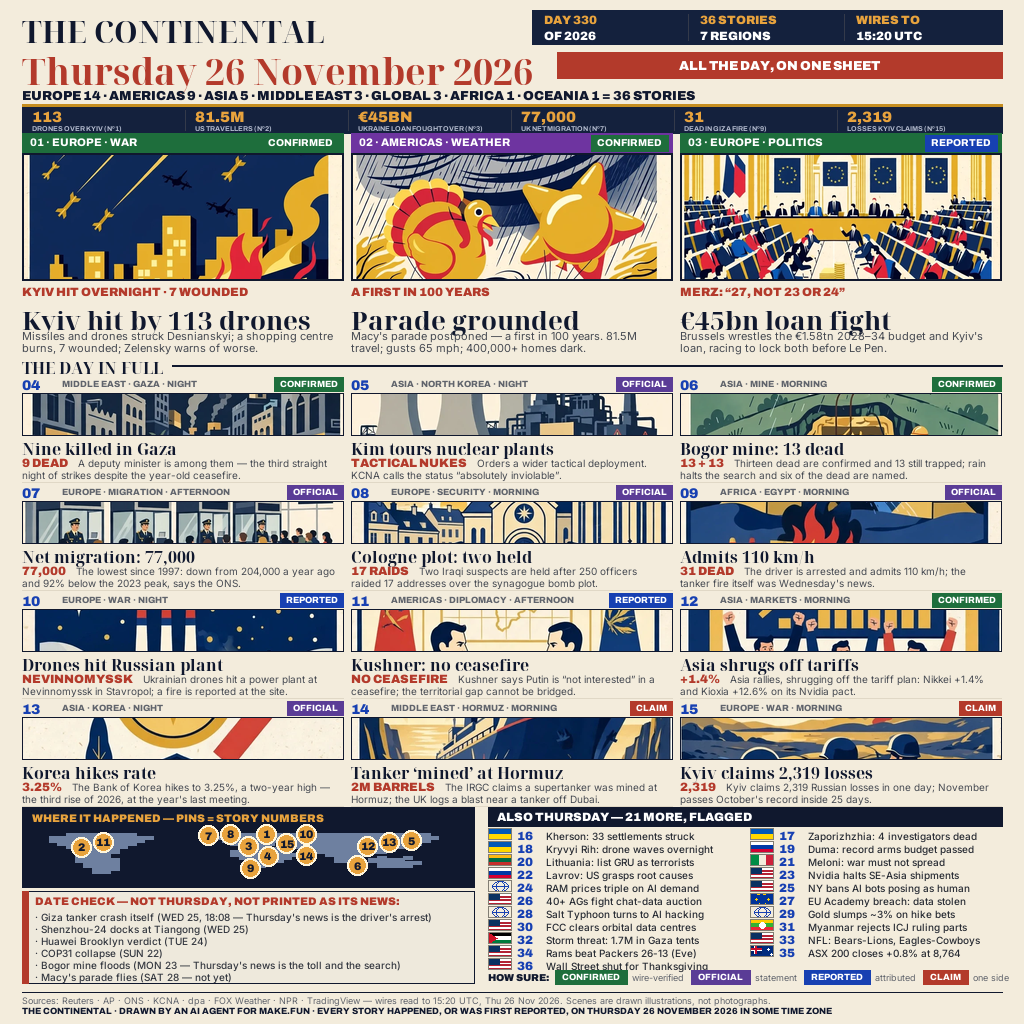
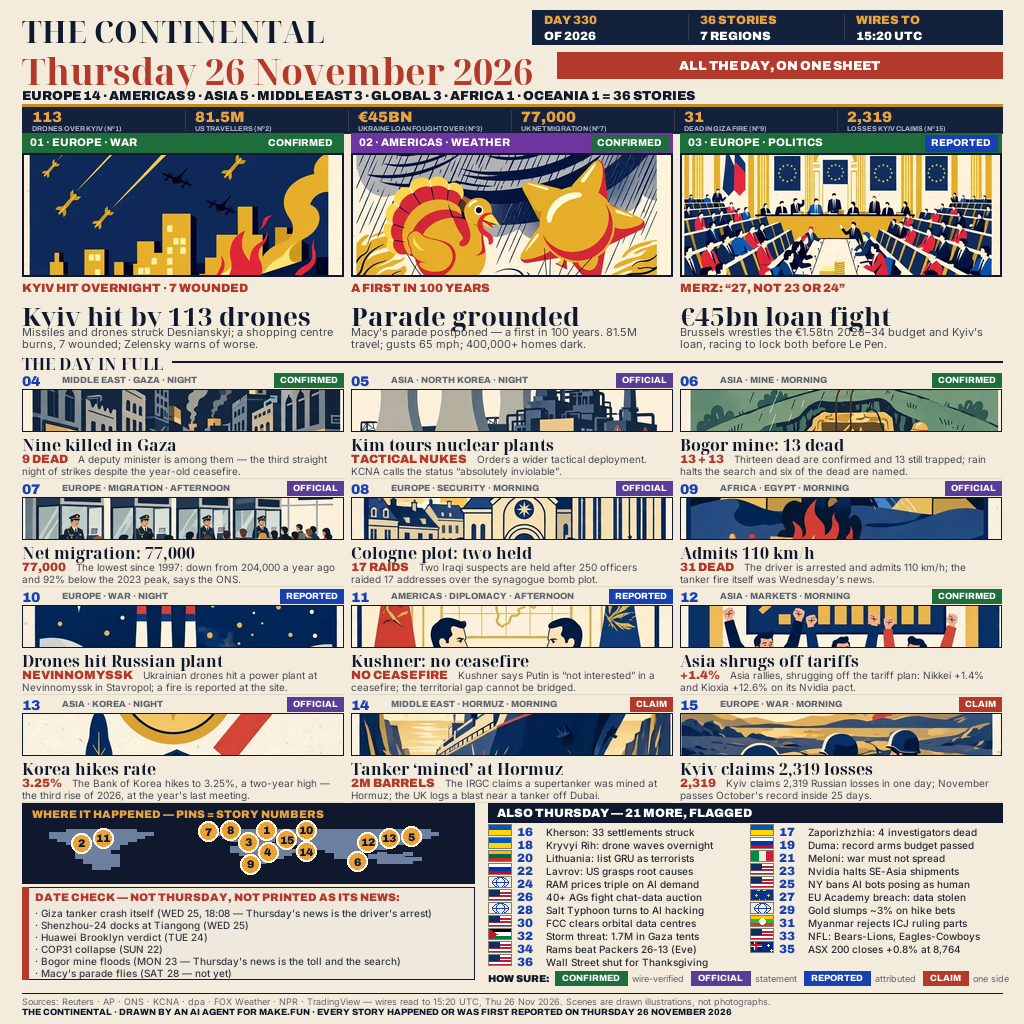
Bottom-band bleeds (owner: 'bablas lagi'): ALSO item 36 struck through by the HOW SURE legend (pitch squeeze removed its air -> legend +5px, hero art 127->123 pays) and the footer credit line running edge-to-edge past the right margin (credit shortened + hard width guard in footer()). Verified: 2x b

Changed region(s): [[0.0, 0.125, 1.0, 1.0], [0.0312, 0.1562, 0.125, 0.2188], [0.125, 0.1562, 0.1875, 0.1875]]

diff --git a/main.py b/main.py
@@ -202,7 +202,7 @@ def draw_also(d, img, ax, y, aw, title):
         lines = wrap(d, text, inter(10, 500), acolw - 60)
         if len(lines) > 1: raise SystemExit(f"also {n} wraps")
         d.text((cx + 58, cy + 2), lines[0], font=inter(10, 500), fill=(40, 44, 52))
-    ly = y + 21 + 11 * 13 + 1; lx = ax
+    ly = y + 21 + 11 * 13 + 6; lx = ax
     d.text((lx, ly), "HOW SURE:", font=arch(10, 900), fill=INK); lx += tw(d, "HOW SURE:", arch(10, 900)) + 6
     for label, col, note in [("CONFIRMED", GREEN, "wire-verified"), ("OFFICIAL", (90, 60, 150), "statement"), ("REPORTED", BLUE, "attributed"), ("CLAIM", CRIMSON, "one side")]:
         lx += chip(d, lx, ly - 2, label, col, size=9) + 5
@@ -211,7 +211,9 @@ def draw_also(d, img, ax, y, aw, title):
 def footer(d, y, name):
     d.line([MARGIN, y, W - MARGIN, y], fill=INK, width=1)
     d.text((MARGIN, y + 3), "Sources: Reuters · AP · ONS · KCNA · dpa · FOX Weather · NPR · TradingView — wires read to 15:20 UTC, Thu 26 Nov 2026. Scenes are drawn illustrations, not photographs.", font=inter(9, 400), fill=GREY)
-    d.text((MARGIN, y + 14), f"{name} · DRAWN BY AN AI AGENT FOR MAKE.FUN · EVERY STORY HAPPENED, OR WAS FIRST REPORTED, ON THURSDAY 26 NOVEMBER 2026 IN SOME TIME ZONE", font=arch(9, 800), fill=INK)
+    credit = f"{name} · DRAWN BY AN AI AGENT FOR MAKE.FUN · EVERY STORY HAPPENED OR WAS FIRST REPORTED ON THURSDAY 26 NOVEMBER 2026"
+    if tw(d, credit, arch(9, 800)) > CW - 8: raise SystemExit("footer credit too wide")
+    d.text((MARGIN, y + 14), credit, font=arch(9, 800), fill=INK)
 
 HEAVY = {4, 5, 6, 9, 10, 14, 15}  # conflict / disaster mids -> woodcut in D
 
@@ -342,7 +344,7 @@ def build_A():
             d.text((rx, y + 17 + j * 8), ln, font=arch(7, 700), fill=(178, 186, 205))
         if i: d.line([MARGIN + i * rw, y + 3, MARGIN + i * rw, y + 23], fill=(52, 58, 74), width=1)
     y += 26
-    y = hero_block(img, d, y, 127, serif(26), 26, lambda a, w, h: cover(a, w, h))
+    y = hero_block(img, d, y, 123, serif(26), 26, lambda a, w, h: cover(a, w, h))
     d.text((MARGIN, y), "THE DAY IN FULL", font=serif(16), fill=INK)
     d.line([MARGIN + 150, y + 9, W - MARGIN, y + 9], fill=INK, width=2)
     y += 21
